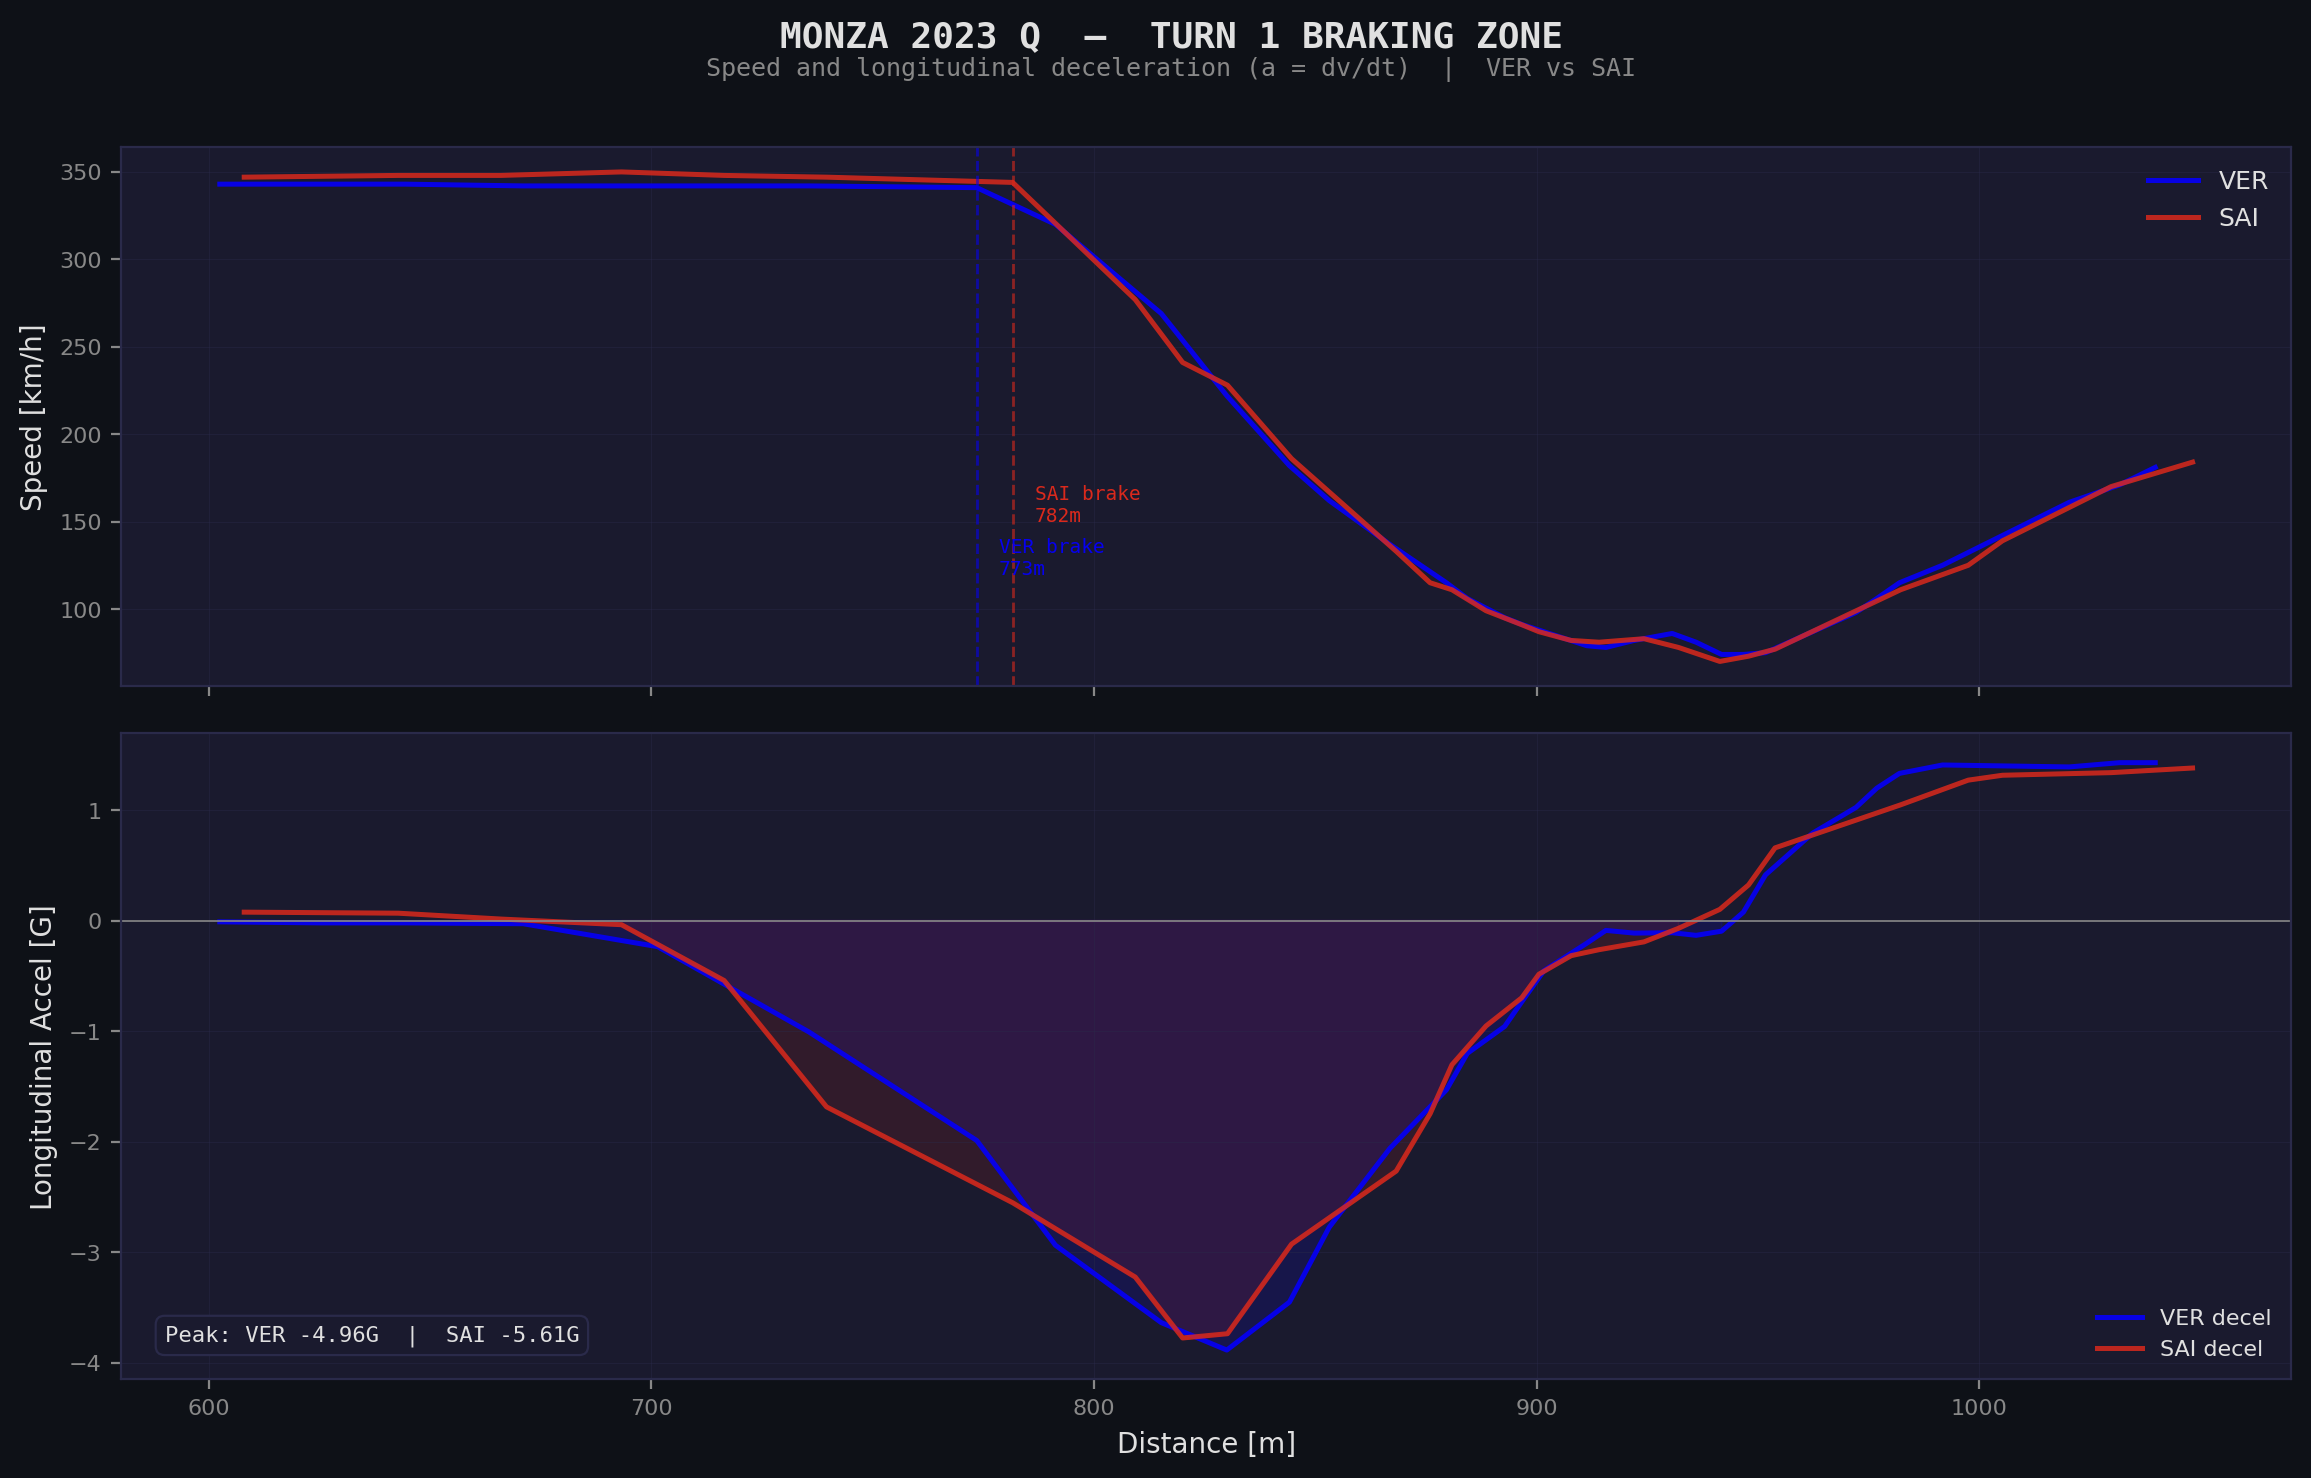
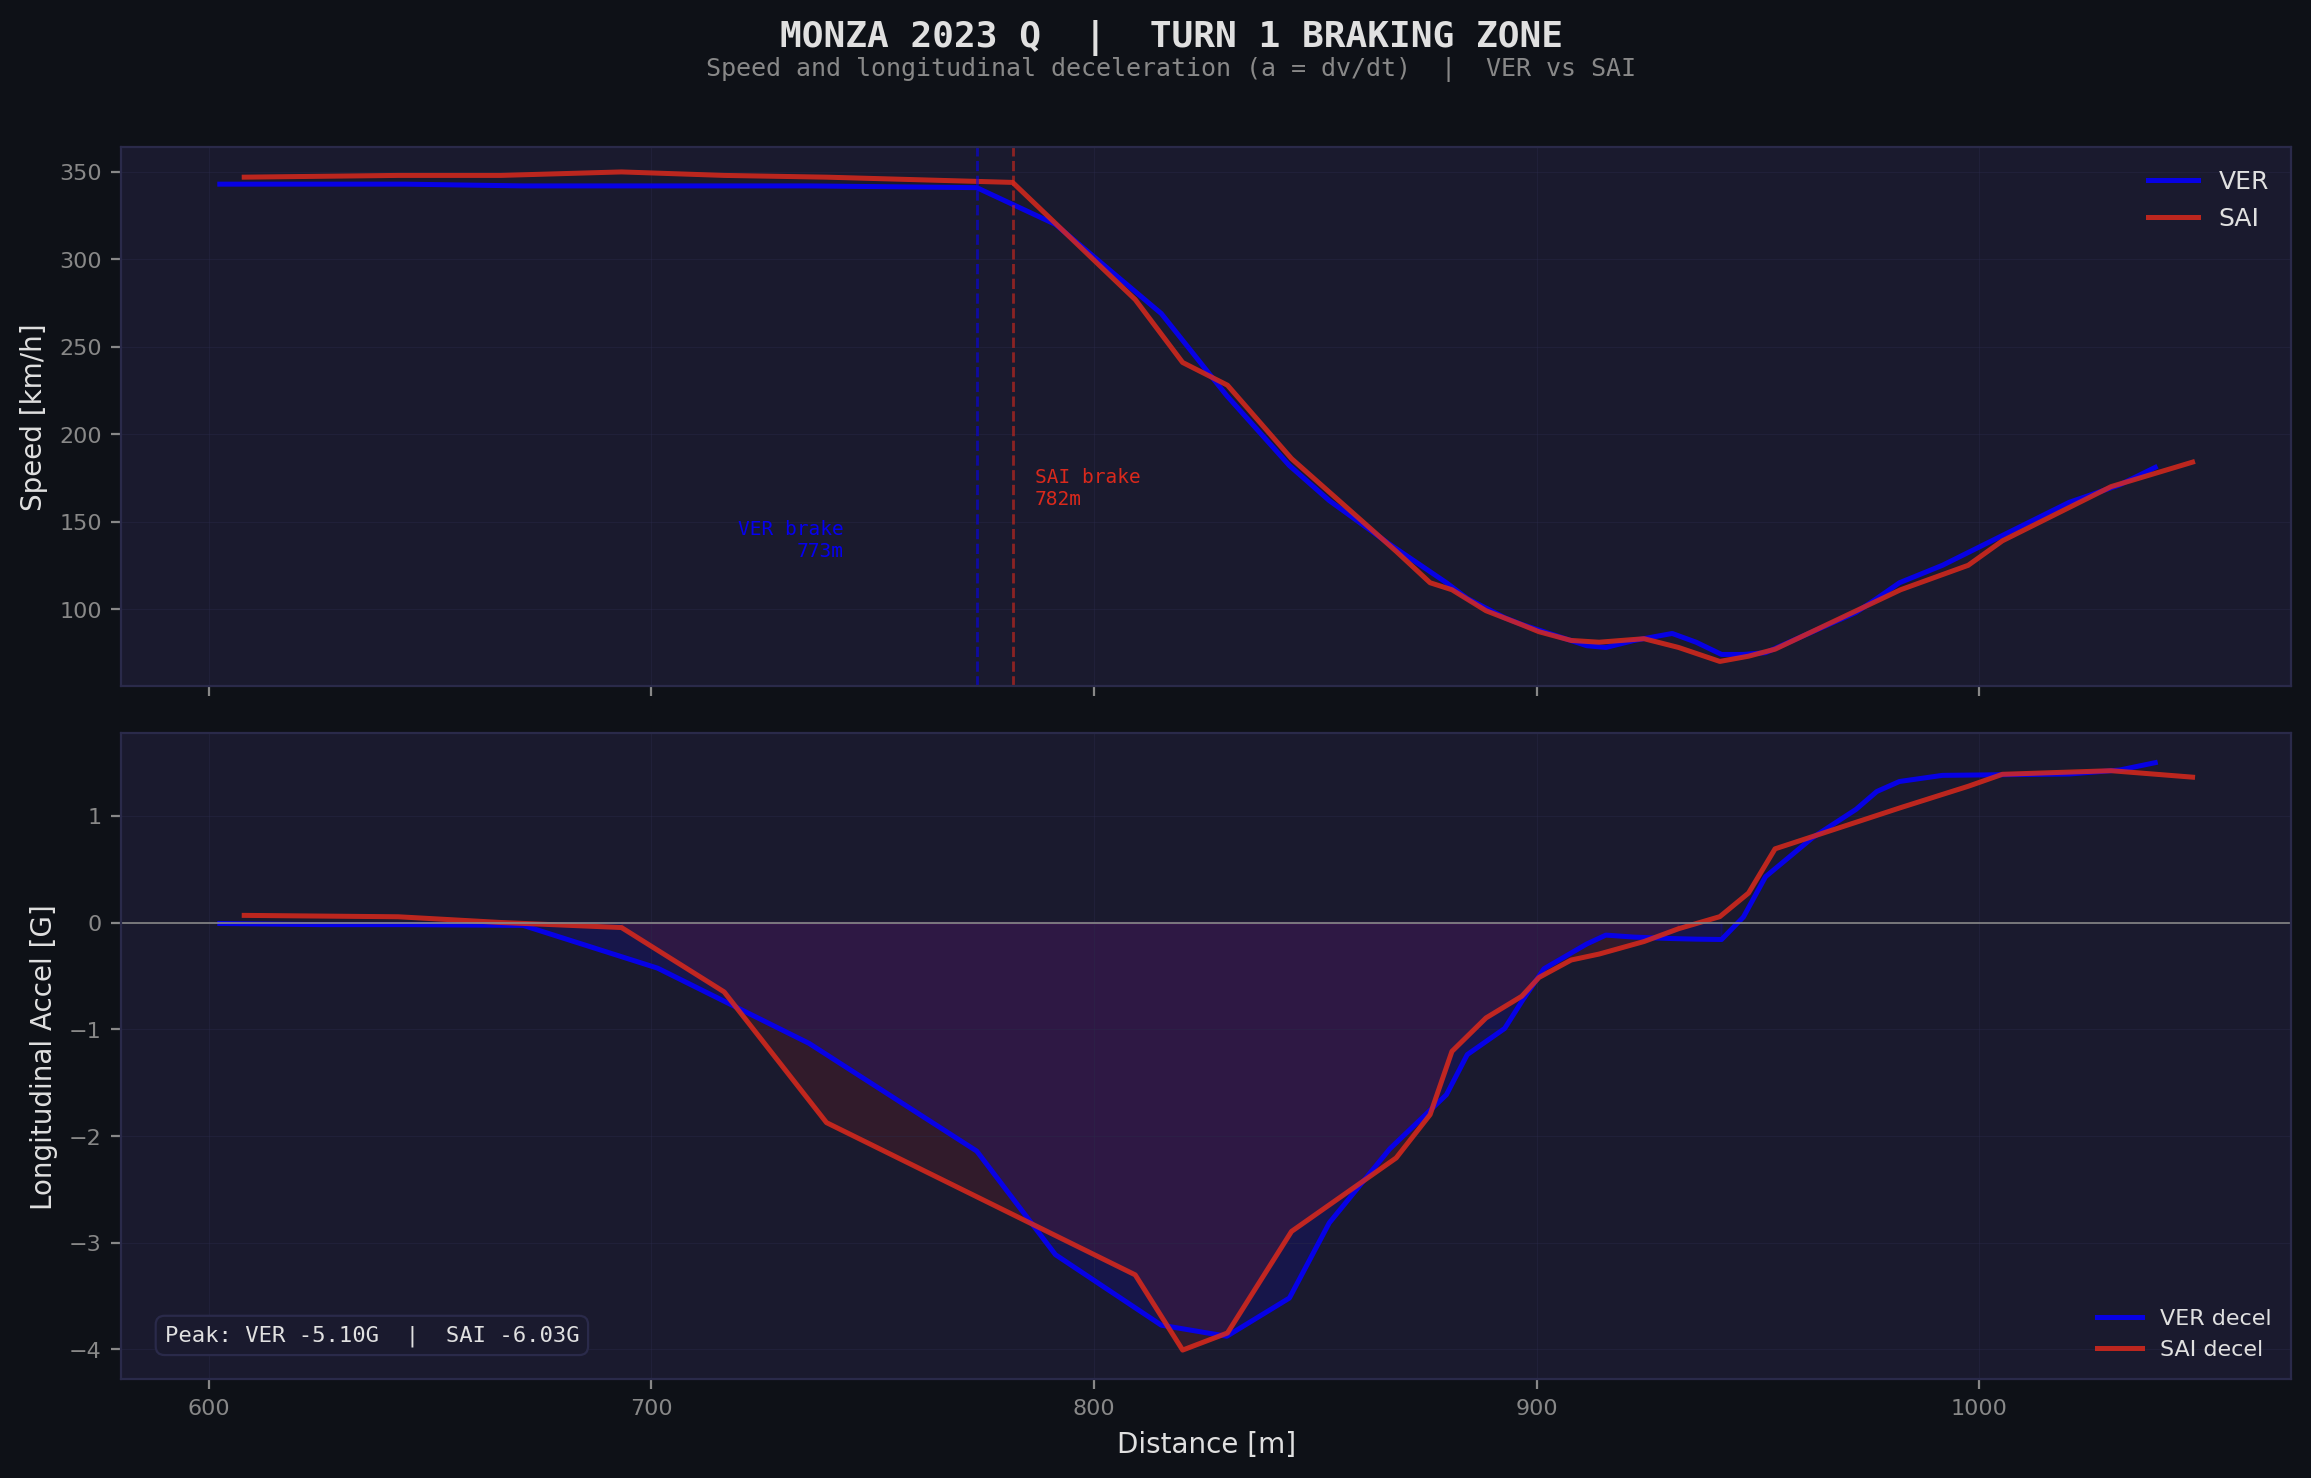
refactor: consolidate dashboard, fix physics, correct T1 zone
- dashboard.py now imports from pipeline.py instead of duplicating logic
- remove redundant app.py
- pipeline.py uses np.gradient(v, t) directly for cleaner dv/dt
- fix T1 zone highlight in full-lap plot (was 250-750, now 600-1050)
- fix brake point label overlap in charts
- regenerate plots from real FIA data

diff --git a/dashboard.py b/dashboard.py
@@ -1,82 +1,35 @@
 """
 dashboard.py
 Streamlit app for Monza T1 braking deceleration analysis.
-Fetches 2023 Monza Q telemetry via FastF1, computes longitudinal
-deceleration (a = dv/dt), and displays a dual-axis chart comparing
-VER vs SAI through the Turn 1 braking zone.
+Pulls real 2023 Monza Q telemetry via pipeline.py, displays a
+dual-axis chart of speed and longitudinal deceleration (a = dv/dt)
+through the Turn 1 braking zone.
 """
 
 import streamlit as st
-import numpy as np
 import matplotlib
 matplotlib.use("Agg")
 import matplotlib.pyplot as plt
 from scipy.ndimage import uniform_filter1d
-import fastf1
-import fastf1.plotting as fp
+from pipeline import run_pipeline
 
 st.set_page_config(page_title="Monza T1 Braking", layout="wide")
 
-T1_ENTRY = 600
-T1_EXIT = 1050
-
 
 @st.cache_data(ttl=3600)
-def load_telemetry():
-    """Fetch real qualifying telemetry and compute deceleration."""
-    session = fastf1.get_session(2023, "Monza", "Q")
-    session.load()
-
-    ver_lap = session.laps.pick_drivers("VER").pick_fastest()
-    sai_lap = session.laps.pick_drivers("SAI").pick_fastest()
-
-    ver_tel = ver_lap.get_car_data().add_distance()
-    sai_tel = sai_lap.get_car_data().add_distance()
-
-    ver_color = fp.get_team_color(ver_lap["Team"], session=session)
-    sai_color = fp.get_team_color(sai_lap["Team"], session=session)
-
-    def add_decel(df):
-        d = df.copy()
-        d["ElapsedSec"] = d["SessionTime"].dt.total_seconds()
-        d["Speed_ms"] = d["Speed"] * (1000.0 / 3600.0)
-        dt = np.gradient(d["ElapsedSec"].values)
-        dv = np.gradient(d["Speed_ms"].values)
-        dt[dt == 0] = np.nan
-        raw_accel = dv / dt
-        d["Accel_G"] = raw_accel / 9.81
-        d["Accel_G"] = d["Accel_G"].interpolate(method="nearest").bfill().ffill()
-        return d
-
-    ver_tel = add_decel(ver_tel)
-    sai_tel = add_decel(sai_tel)
-
-    def zone(df):
-        return df[(df["Distance"] >= T1_ENTRY) & (df["Distance"] <= T1_EXIT)].copy()
-
-    ver_z = zone(ver_tel)
-    sai_z = zone(sai_tel)
-
-    def brake_pt(df, threshold=-0.5):
-        heavy = df[df["Accel_G"] < threshold]
-        if len(heavy) == 0:
-            return None
-        return float(heavy["Distance"].iloc[0])
-
-    return {
-        "ver_z": ver_z,
-        "sai_z": sai_z,
-        "ver_color": ver_color,
-        "sai_color": sai_color,
-        "ver_bp": brake_pt(ver_z),
-        "sai_bp": brake_pt(sai_z),
-        "ver_peak": float(ver_z["Accel_G"].min()),
-        "sai_peak": float(sai_z["Accel_G"].min()),
-    }
+def get_data():
+    return run_pipeline()
 
 
-def make_chart(d):
+def make_chart(data):
     """Dual-axis chart: Speed + Deceleration through T1."""
+    zone_a = data["zone_a"]
+    zone_b = data["zone_b"]
+    da, db = data["driver_a"], data["driver_b"]
+    ca, cb = data["color_a"], data["color_b"]
+    bp_a, bp_b = data["brake_point_a"], data["brake_point_b"]
+    peak_a, peak_b = data["peak_decel_a"], data["peak_decel_b"]
+
     bg = "#0e1117"
     panel = "#1a1a2e"
     grid_c = "#2a2a4a"
@@ -90,19 +43,19 @@ def make_chart(d):
 
     # speed panel
     ax_spd.set_facecolor(panel)
-    ax_spd.plot(d["ver_z"]["Distance"], d["ver_z"]["Speed"],
-                color=d["ver_color"], lw=1.8, label="VER", alpha=0.95)
-    ax_spd.plot(d["sai_z"]["Distance"], d["sai_z"]["Speed"],
-                color=d["sai_color"], lw=1.8, label="SAI", alpha=0.85)
+    ax_spd.plot(zone_a["Distance"], zone_a["Speed"],
+                color=ca, lw=1.8, label=da, alpha=0.95)
+    ax_spd.plot(zone_b["Distance"], zone_b["Speed"],
+                color=cb, lw=1.8, label=db, alpha=0.85)
 
-    if d["ver_bp"]:
-        ax_spd.axvline(d["ver_bp"], color=d["ver_color"], ls="--", lw=1, alpha=0.6)
-        ax_spd.text(d["ver_bp"] + 5, 120, f"VER brake\n{d['ver_bp']:.0f}m",
-                    fontsize=7, color=d["ver_color"], fontfamily="monospace")
-    if d["sai_bp"]:
-        ax_spd.axvline(d["sai_bp"], color=d["sai_color"], ls="--", lw=1, alpha=0.6)
-        ax_spd.text(d["sai_bp"] + 5, 150, f"SAI brake\n{d['sai_bp']:.0f}m",
-                    fontsize=7, color=d["sai_color"], fontfamily="monospace")
+    if bp_a is not None:
+        ax_spd.axvline(bp_a, color=ca, ls="--", lw=1, alpha=0.6)
+        ax_spd.text(bp_a - 30, 130, f"{da} brake\n{bp_a:.0f}m",
+                    fontsize=7, color=ca, fontfamily="monospace", ha="right")
+    if bp_b is not None:
+        ax_spd.axvline(bp_b, color=cb, ls="--", lw=1, alpha=0.6)
+        ax_spd.text(bp_b + 5, 160, f"{db} brake\n{bp_b:.0f}m",
+                    fontsize=7, color=cb, fontfamily="monospace")
 
     ax_spd.set_ylabel("Speed [km/h]", fontsize=10, color=txt)
     ax_spd.tick_params(colors=muted, labelsize=8)
@@ -113,22 +66,23 @@ def make_chart(d):
 
     # deceleration panel
     ax_dec.set_facecolor(panel)
-    sm_v = uniform_filter1d(d["ver_z"]["Accel_G"].values, size=5)
-    sm_s = uniform_filter1d(d["sai_z"]["Accel_G"].values, size=5)
+    smooth_a = uniform_filter1d(zone_a["Accel_G"].values, size=5)
+    smooth_b = uniform_filter1d(zone_b["Accel_G"].values, size=5)
 
-    ax_dec.plot(d["ver_z"]["Distance"].values, sm_v, color=d["ver_color"],
-                lw=1.8, label="VER decel", alpha=0.95)
-    ax_dec.plot(d["sai_z"]["Distance"].values, sm_s, color=d["sai_color"],
-                lw=1.8, label="SAI decel", alpha=0.85)
+    ax_dec.plot(zone_a["Distance"].values, smooth_a, color=ca,
+                lw=1.8, label=f"{da} decel", alpha=0.95)
+    ax_dec.plot(zone_b["Distance"].values, smooth_b, color=cb,
+                lw=1.8, label=f"{db} decel", alpha=0.85)
     ax_dec.axhline(0, color=muted, lw=0.6)
-    ax_dec.fill_between(d["ver_z"]["Distance"].values, 0, sm_v,
-                        where=(sm_v < 0), alpha=0.15, color=d["ver_color"])
-    ax_dec.fill_between(d["sai_z"]["Distance"].values, 0, sm_s,
-                        where=(sm_s < 0), alpha=0.12, color=d["sai_color"])
+    ax_dec.fill_between(zone_a["Distance"].values, 0, smooth_a,
+                        where=(smooth_a < 0), alpha=0.15, color=ca)
+    ax_dec.fill_between(zone_b["Distance"].values, 0, smooth_b,
+                        where=(smooth_b < 0), alpha=0.12, color=cb)
 
     ax_dec.text(0.02, 0.06,
-                f"Peak: VER {d['ver_peak']:.2f}G  |  SAI {d['sai_peak']:.2f}G",
-                transform=ax_dec.transAxes, fontsize=8, color=txt, fontfamily="monospace",
+                f"Peak: {da} {peak_a:.2f}G  |  {db} {peak_b:.2f}G",
+                transform=ax_dec.transAxes, fontsize=8, color=txt,
+                fontfamily="monospace",
                 bbox=dict(boxstyle="round,pad=0.4", fc=panel, ec=grid_c, lw=0.8))
 
     ax_dec.set_ylabel("Longitudinal Accel [G]", fontsize=10, color=txt)
@@ -143,7 +97,7 @@ def make_chart(d):
                  color=txt, fontsize=13, fontweight="bold",
                  fontfamily="monospace", y=0.96)
     fig.text(0.5, 0.925,
-             "Speed and longitudinal deceleration (a = dv/dt)  |  VER vs SAI",
+             f"Speed and longitudinal deceleration (a = dv/dt)  |  {da} vs {db}",
              ha="center", color=muted, fontsize=9, fontfamily="monospace")
 
     return fig
@@ -154,34 +108,37 @@ def main():
     st.caption("2023 Italian GP Qualifying  /  VER vs SAI  /  Real FIA telemetry via FastF1")
 
     with st.spinner("Loading telemetry from FIA servers..."):
-        d = load_telemetry()
+        data = get_data()
+
+    da, db = data["driver_a"], data["driver_b"]
+    bp_a, bp_b = data["brake_point_a"], data["brake_point_b"]
 
     c1, c2, c3, c4 = st.columns(4)
-    c1.metric("VER brake point", f"{d['ver_bp']:.0f} m" if d["ver_bp"] else "n/a")
-    c2.metric("SAI brake point", f"{d['sai_bp']:.0f} m" if d["sai_bp"] else "n/a")
-    c3.metric("VER peak decel", f"{d['ver_peak']:.2f} G")
-    c4.metric("SAI peak decel", f"{d['sai_peak']:.2f} G")
+    c1.metric(f"{da} brake point", f"{bp_a:.0f} m" if bp_a else "n/a")
+    c2.metric(f"{db} brake point", f"{bp_b:.0f} m" if bp_b else "n/a")
+    c3.metric(f"{da} peak decel", f"{data['peak_decel_a']:.2f} G")
+    c4.metric(f"{db} peak decel", f"{data['peak_decel_b']:.2f} G")
 
-    if d["ver_bp"] and d["sai_bp"]:
-        diff = abs(d["sai_bp"] - d["ver_bp"])
-        later = "VER" if d["ver_bp"] > d["sai_bp"] else "SAI"
+    if bp_a and bp_b:
+        diff = abs(bp_b - bp_a)
+        later = da if bp_a > bp_b else db
         st.info(f"**{later}** brakes **{diff:.0f} m later** into Turn 1.")
 
-    fig = make_chart(d)
+    fig = make_chart(data)
     st.pyplot(fig, use_container_width=True)
 
     with st.expander("Raw telemetry (T1 zone)"):
-        t1, t2 = st.tabs(["VER", "SAI"])
-        with t1:
+        tab1, tab2 = st.tabs([da, db])
+        with tab1:
             st.dataframe(
-                d["ver_z"][["Distance", "Speed", "Accel_G"]].rename(
-                    columns={"Accel_G": "Accel [G]"}),
+                data["zone_a"][["Distance", "Speed", "Accel_ms2", "Accel_G"]]
+                .rename(columns={"Accel_ms2": "Accel [m/s2]", "Accel_G": "Accel [G]"}),
                 use_container_width=True,
             )
-        with t2:
+        with tab2:
             st.dataframe(
-                d["sai_z"][["Distance", "Speed", "Accel_G"]].rename(
-                    columns={"Accel_G": "Accel [G]"}),
+                data["zone_b"][["Distance", "Speed", "Accel_ms2", "Accel_G"]]
+                .rename(columns={"Accel_ms2": "Accel [m/s2]", "Accel_G": "Accel [G]"}),
                 use_container_width=True,
             )
 

diff --git a/generate_plots.py b/generate_plots.py
@@ -41,11 +41,11 @@ def save_braking_chart(data, out="results/braking_analysis.png"):
 
     if bp_a is not None:
         ax1.axvline(bp_a, color=ca, linestyle="--", linewidth=1, alpha=0.6)
-        ax1.text(bp_a + 5, 120, f"{da} brake\n{bp_a:.0f}m",
-                 fontsize=7, color=ca, fontfamily="monospace")
+        ax1.text(bp_a - 30, 130, f"{da} brake\n{bp_a:.0f}m",
+                 fontsize=7, color=ca, fontfamily="monospace", ha="right")
     if bp_b is not None:
         ax1.axvline(bp_b, color=cb, linestyle="--", linewidth=1, alpha=0.6)
-        ax1.text(bp_b + 5, 150, f"{db} brake\n{bp_b:.0f}m",
+        ax1.text(bp_b + 5, 160, f"{db} brake\n{bp_b:.0f}m",
                  fontsize=7, color=cb, fontfamily="monospace")
 
     ax1.set_ylabel("Speed [km/h]", fontsize=10, color=text_c)
@@ -120,10 +120,11 @@ def save_full_lap_speed(data, out="results/full_lap_speed.png"):
     ax.plot(tel_b["Distance"], tel_b["Speed"], color=cb,
             linewidth=1.0, label=db, alpha=0.8)
 
-    # highlight T1 zone
-    ax.axvspan(250, 750, alpha=0.08, color="#ffffff", label="T1 zone")
-    ax.text(500, 355, "T1", ha="center", fontsize=9, color=muted,
-            fontfamily="monospace")
+    # highlight T1 braking zone (600m to 1050m from start line)
+    from pipeline import T1_ENTRY, T1_EXIT
+    ax.axvspan(T1_ENTRY, T1_EXIT, alpha=0.08, color="#ffffff", label="T1 zone")
+    ax.text((T1_ENTRY + T1_EXIT) / 2, 355, "T1", ha="center", fontsize=9,
+            color=muted, fontfamily="monospace")
 
     ax.set_ylabel("Speed [km/h]", fontsize=10, color=text_c)
     ax.set_xlabel("Distance [m]", fontsize=10, color=text_c)

diff --git a/pipeline.py b/pipeline.py
@@ -70,17 +70,11 @@ def compute_deceleration(tel: pd.DataFrame) -> pd.DataFrame:
     df["Speed_ms"] = df["Speed"] * (1000.0 / 3600.0)
 
     # numerical derivative: a = dv/dt
-    dt = np.gradient(df["ElapsedSeconds"].values)
-    dv = np.gradient(df["Speed_ms"].values)
-
-    # avoid division by zero on duplicate timestamps
-    dt[dt == 0] = np.nan
-    df["Accel_ms2"] = dv / dt
+    # np.gradient(f, x) computes df/dx directly using central differences
+    t = df["ElapsedSeconds"].values
+    v = df["Speed_ms"].values
+    df["Accel_ms2"] = np.gradient(v, t)
     df["Accel_G"] = df["Accel_ms2"] / 9.81
-
-    # fill any NaN from zero-dt with nearest value
-    df["Accel_ms2"] = df["Accel_ms2"].interpolate(method="nearest").bfill().ffill()
-    df["Accel_G"] = df["Accel_G"].interpolate(method="nearest").bfill().ffill()
 
     return df
 

diff --git a/README.md b/README.md
@@ -8,7 +8,13 @@ Spatial telemetry pipeline calculating kinematic deceleration (dv/dt) into Turn 
 
 ![GUI Screenshot](results/gui_screenshot.png)
 
-Sainz brakes later than Verstappen into Turn 1 and pulls harder peak deceleration. The SF-23's mechanical grip lets him commit to a later brake point and still rotate through the corner. The full speed trace and G-force overlay show exactly where and how each driver slows down from 340 km/h.
+Sainz brakes **9 metres later** than Verstappen into Turn 1 (782m vs 773m from the start line) and hits **-6.03 G** of peak longitudinal deceleration compared to Verstappen's **-5.10 G**. The SF-23's mechanical grip lets Sainz commit to a later, harder brake application and still rotate the car through the corner.
+
+![braking analysis](results/braking_analysis.png)
+
+The full-lap speed trace shows the context. Both cars hit ~340 km/h on the main straight before the T1 braking zone (highlighted region).
+
+![full lap speed](results/full_lap_speed.png)
 
 ## How it works
 
@@ -32,7 +38,6 @@ Three steps.
 ```
 pipeline.py         ingest + deceleration math (a = dv/dt)
 dashboard.py        streamlit dashboard (interactive)
-app.py              alternate streamlit dashboard
 generate_plots.py   static plot generation for README
 assets/
     banner.png      header image (Monza 2023)
